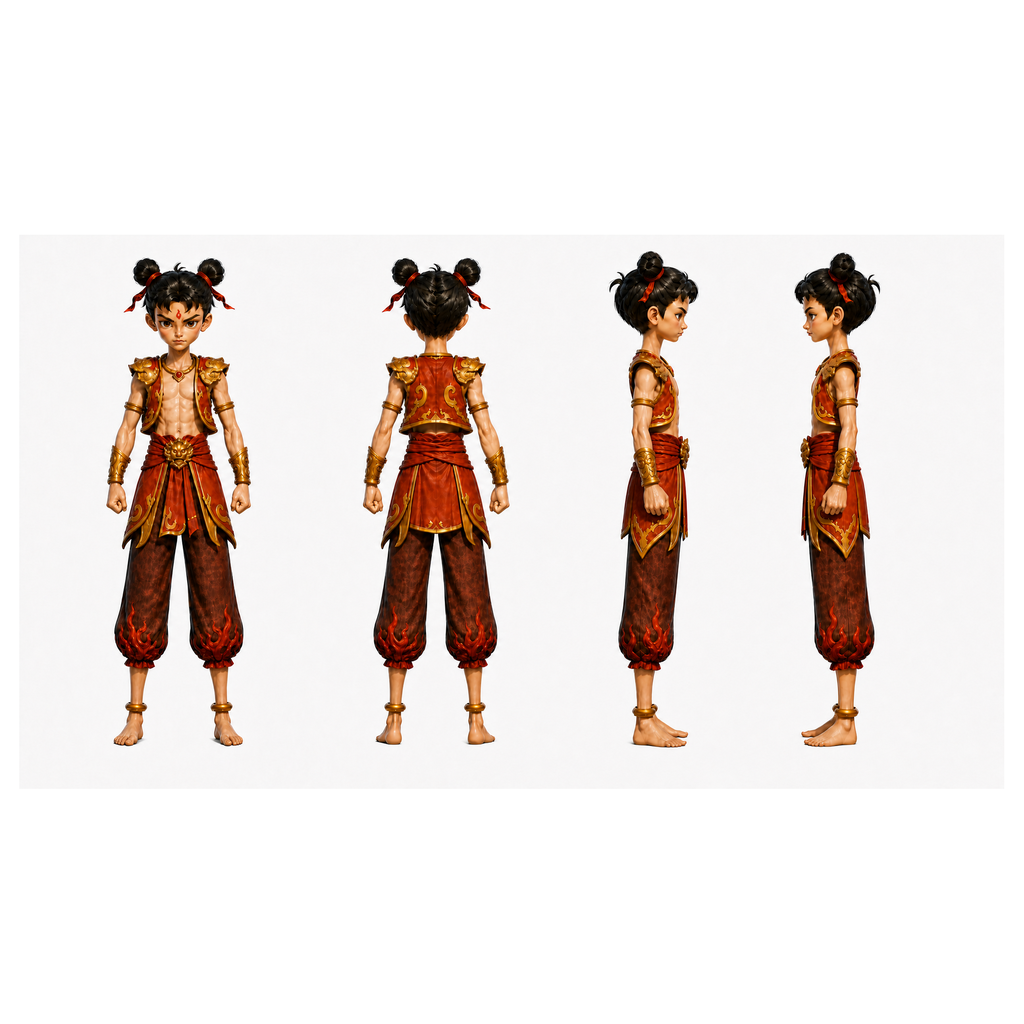
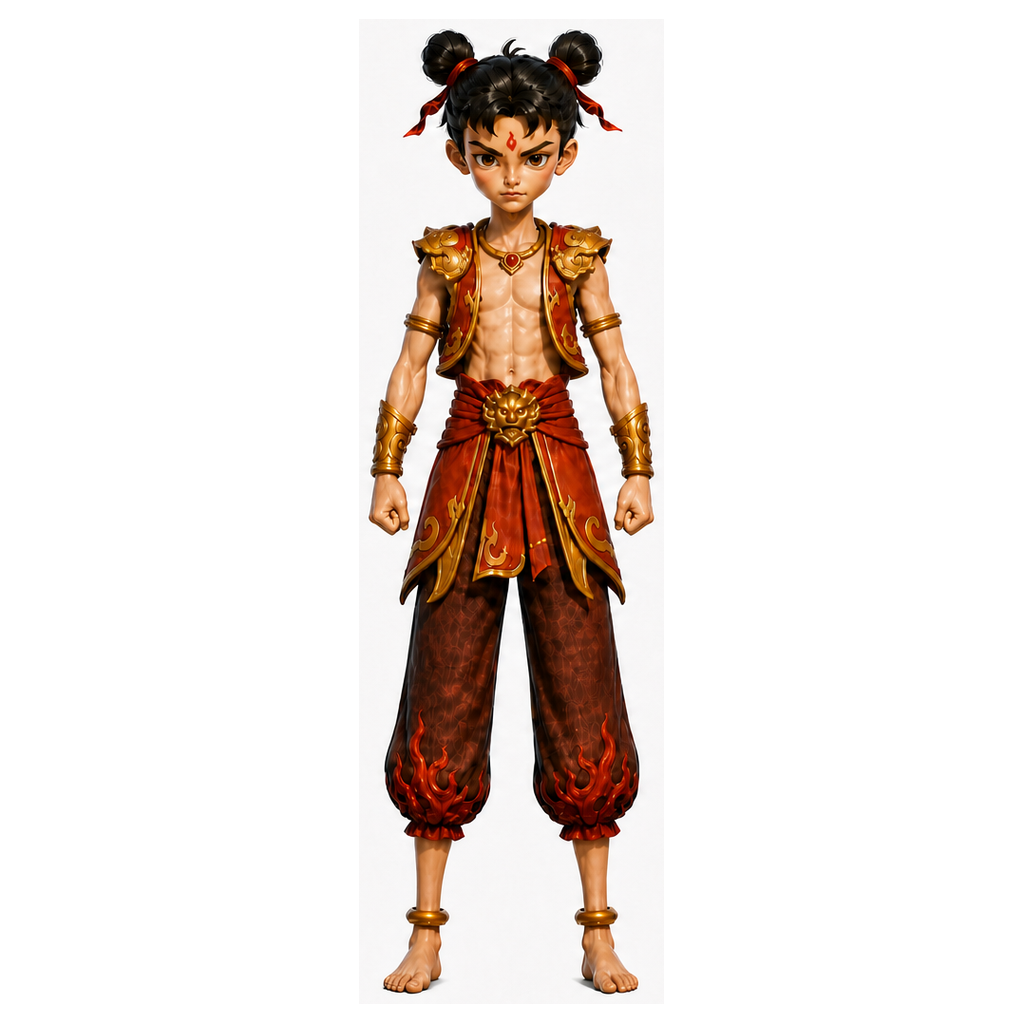
art: 修正握姿四视图拆分（背景非纯白导致切错）并更新清单

Changed region(s): [[0.3438, 0.0312, 0.6875, 0.9688], [0.0938, 0.25, 0.25, 0.75], [0.7812, 0.25, 0.875, 0.75]]

diff --git a/哪吒图片清单.md b/哪吒图片清单.md
@@ -11,7 +11,17 @@
 
 两张都是 1536×2048。
 
-## 四视图（v7 推荐，约 6.5 头身 + 长绸带 + 写实渲染）
+## 握姿四视图（最新，无混天绫、双手握姿）
+
+拼图：`E:\godot_game_by_fable\art_tmp\nezha4view\nezha_turnaround_grip2_20261020_204339_0.png`（2048×1152）
+
+单视图：
+- `E:\godot_game_by_fable\art_tmp\nezha4view\grip_views\01_front.png`
+- `E:\godot_game_by_fable\art_tmp\nezha4view\grip_views\02_back.png`
+- `E:\godot_game_by_fable\art_tmp\nezha4view\grip_views\03_left.png`
+- `E:\godot_game_by_fable\art_tmp\nezha4view\grip_views\04_right.png`
+
+## 四视图（v7，约 6.5 头身 + 长绸带 + 写实渲染）
 
 拼图：`E:\godot_game_by_fable\art_tmp\nezha4view\nezha_turnaround_v7_20261020_133249_0.png`（2048×1152）
 
